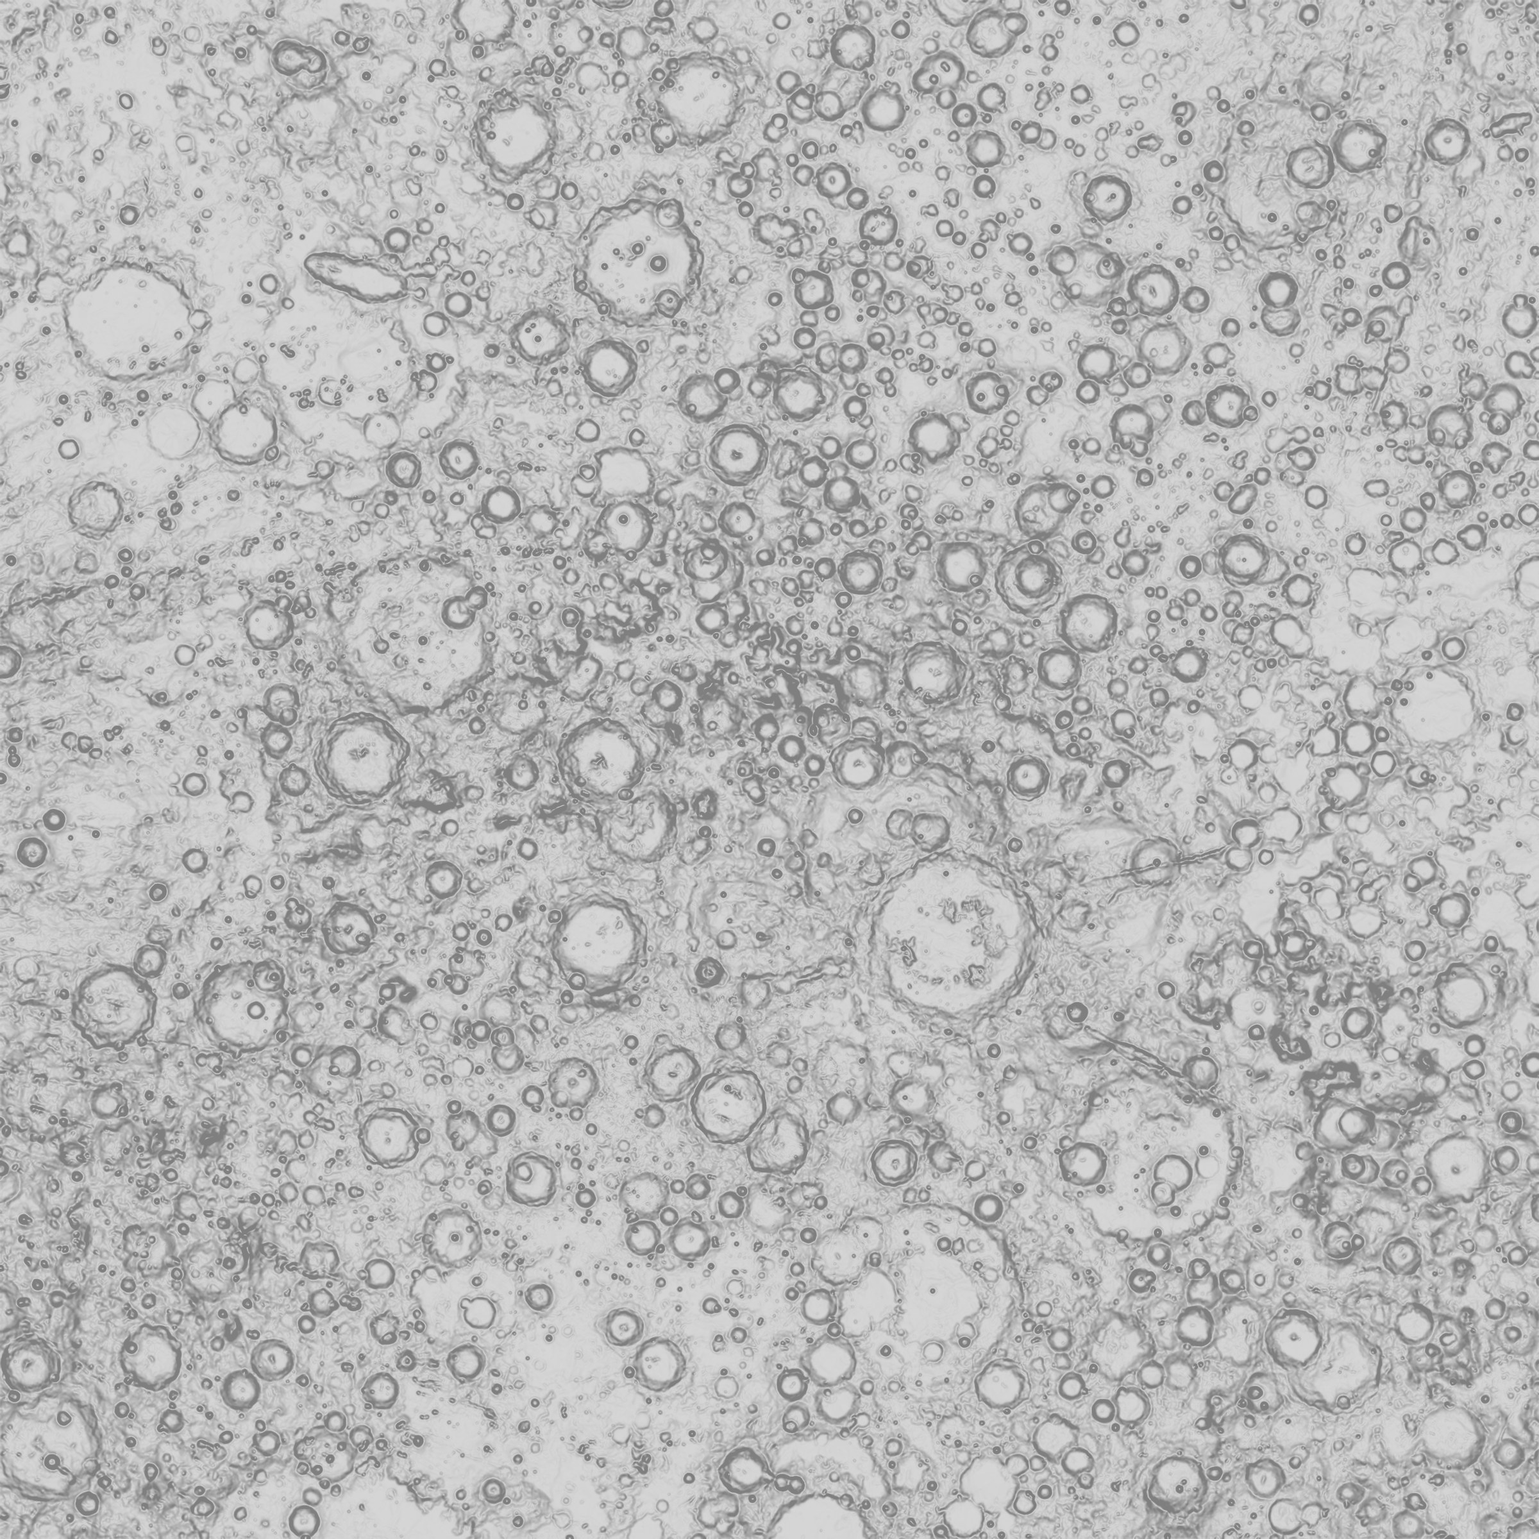
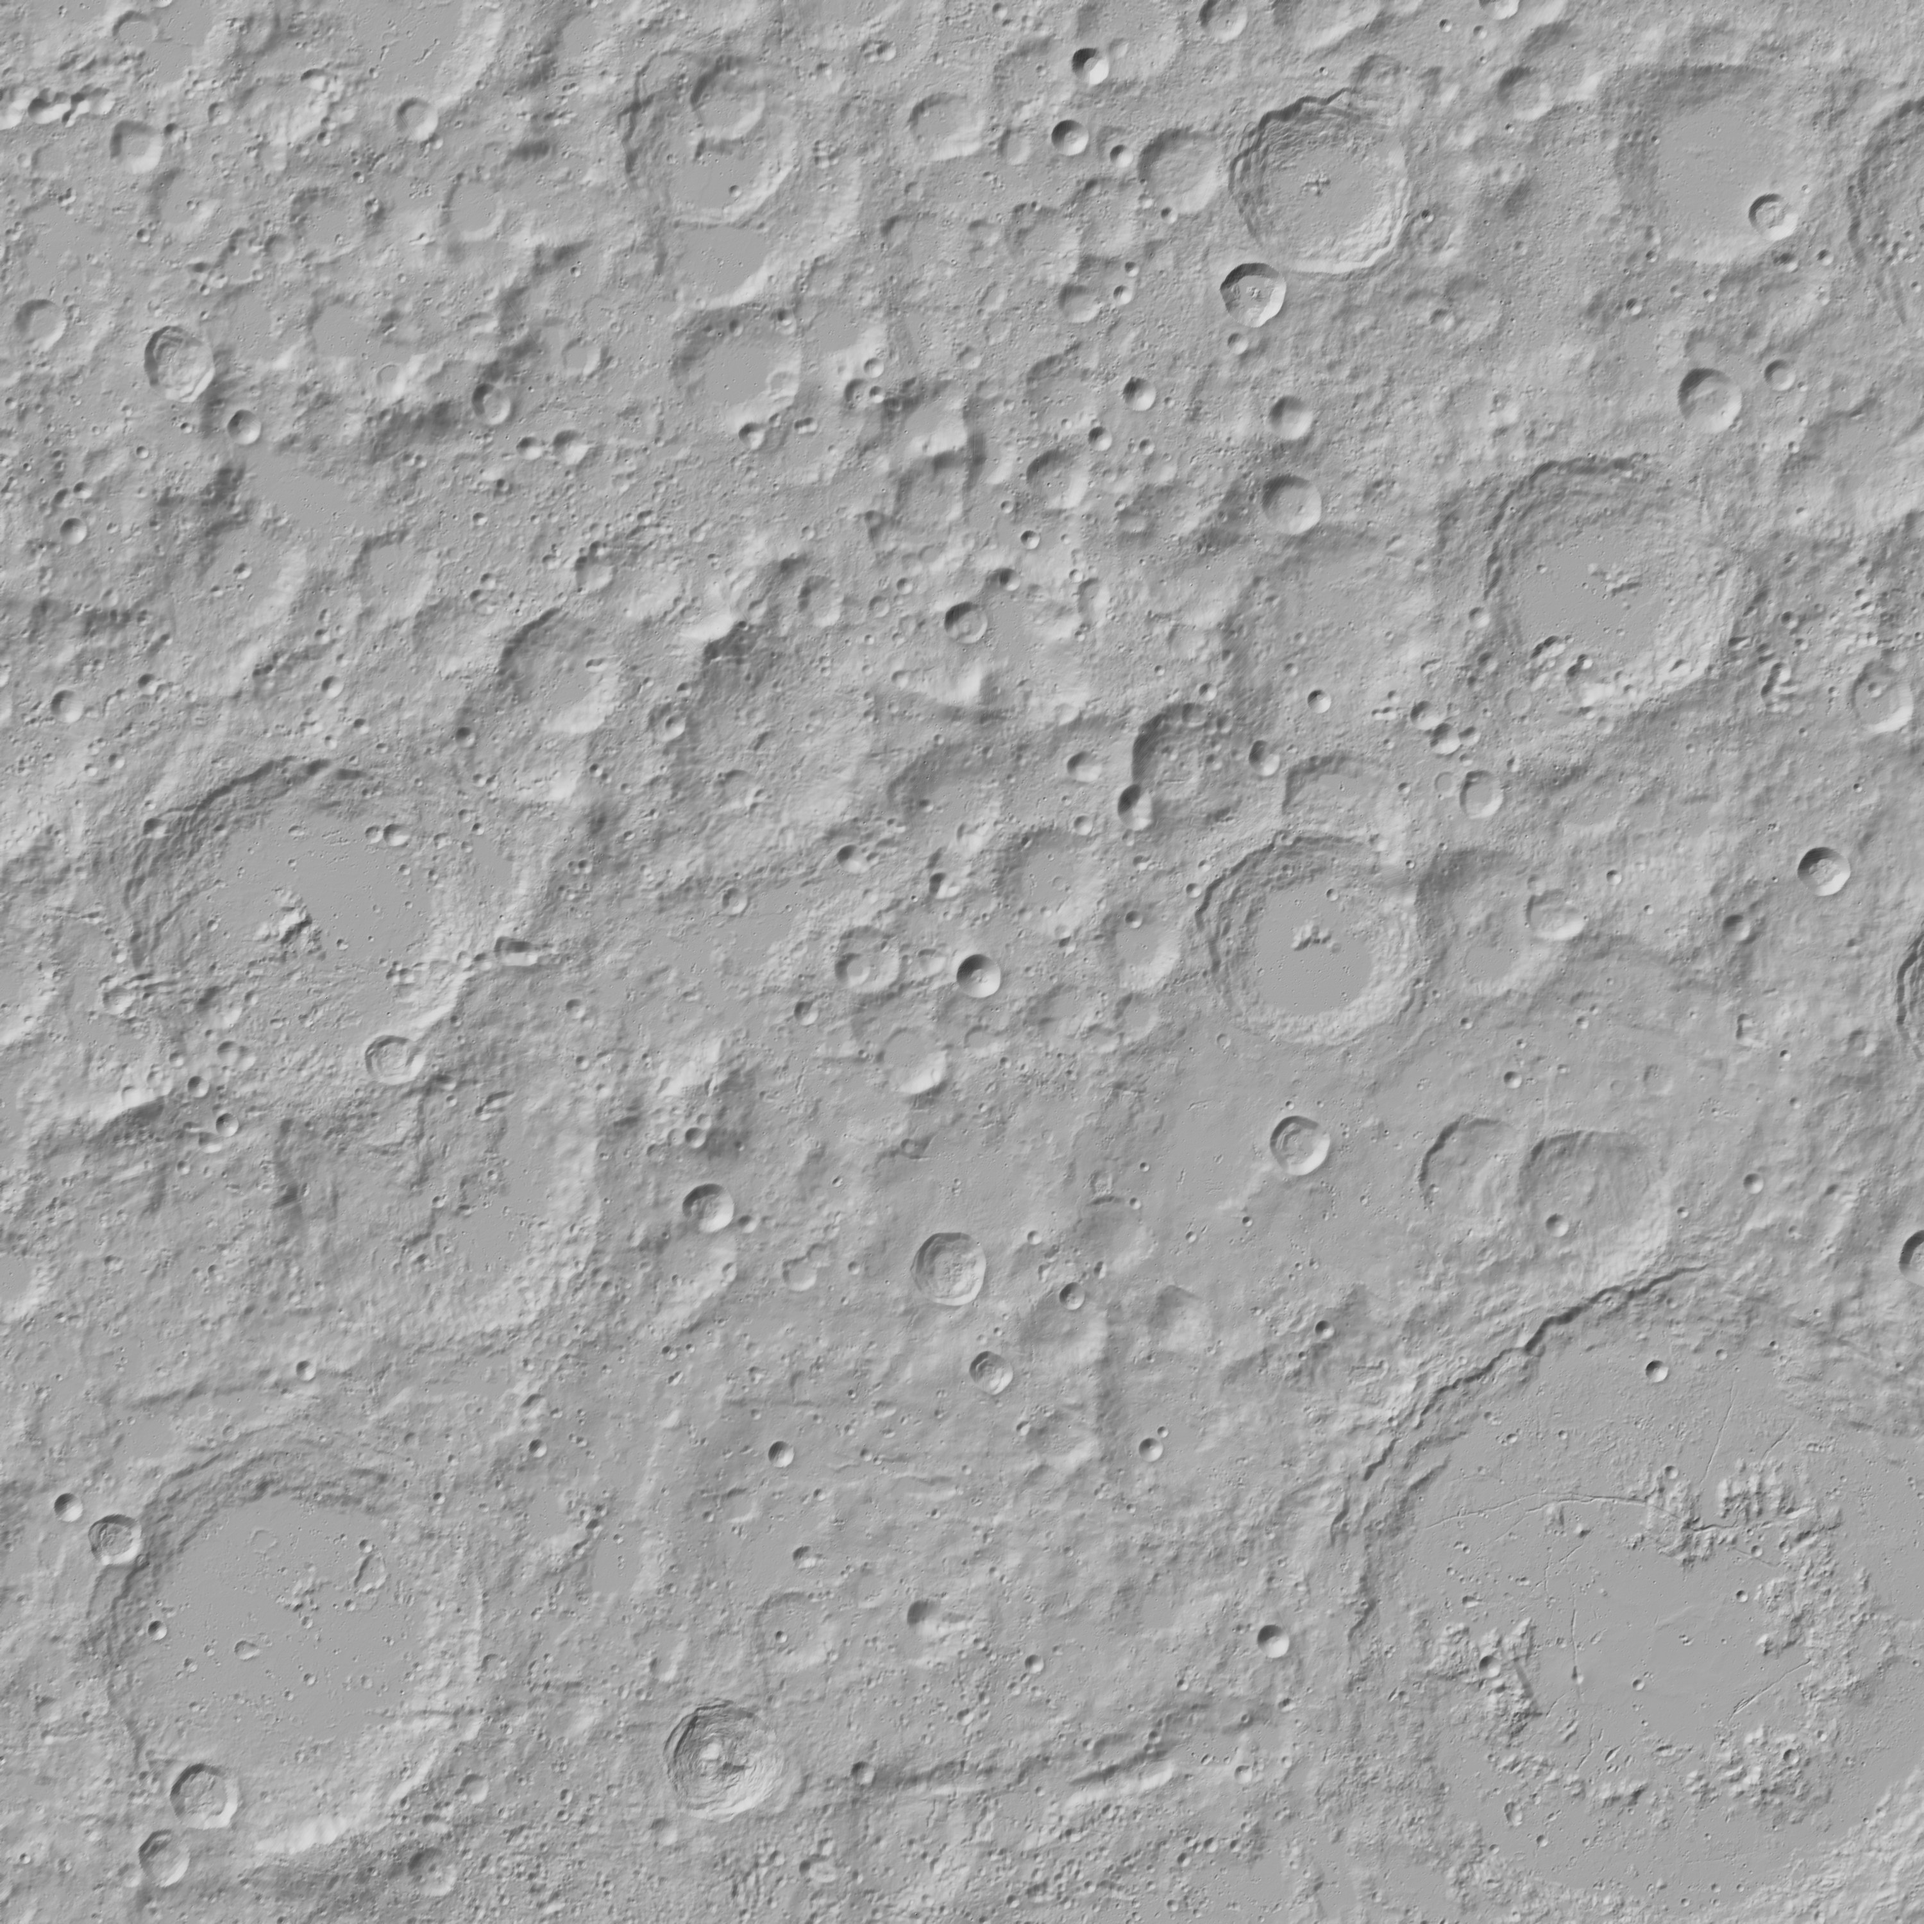
Make the globe's polar map readable
Four changes, all about being able to see what the map says.

Relief basemap: switched from the SPole45 DEM (100 m native, reaching
1440 km) to SPole75 (30 m native, 457 km). The wider product was
paying for ground the closest view never shows -- the frame corners
sit around 10 deg of colatitude, about 300 km -- at the cost of
detail on the ground always on screen. Shading is now a directional
hillshade instead of slope magnitude: a rim lit from one side gets a
bright arc and a dark arc, which reads as a raised rim, where slope
magnitude gave every rim the same tone and a crater field came out
as soft blobs. Dropped the pre-blur that was flattening them further.

Lighting: the fill was tuned for a close-up under grazing polar sun,
which left the whole body black but for one hard-edged sliver at the
overview distance. Raised the fill and widened the terminator so the
night side still reads as terrain.

Zone overlay: dropped the per-boundary contour. At 480 m cells the
sunlit and flat classes break into thousands of isolated cells, and
outlining each one turned the cap into noise. Those two classes are
now faint backdrop; shadow and prime, which are contiguous and carry
the decision, keep their strength.

Drag direction was inverted, and the hover readout kept its last
position after the pointer left, parking it over the title block.

diff --git a/src/glsl/globe.js b/src/glsl/globe.js
@@ -6,10 +6,10 @@
 // rest of the project works in, so a point on the sphere is placed in it by its own latitude
 // and longitude: rho = 2R tan((90 - |lat|) / 2), x = rho sin(lon), y = rho cos(lon), which is
 // latLonToMap from src/geo.js written in GLSL (stereoKm below). The zone grid reaches 151.68
-// km from the pole. A sphere of radius R viewed from distance D along the polar axis shows
-// terrain out to colatitude acos(R/D) at its limb; at the closest view, D = 1.35 R, that is
-// 42 deg -- so the relief basemap, which reaches 45 deg (1440 km), covers what the camera
-// can actually see, with the last few degrees fading toward the sphere's own edge anyway.
+// km from the pole, the relief basemap 457 km (75 deg south to the pole). What the closest
+// view needs is set by the field of view, not by the sphere's limb: at D = 1.35 R with a
+// 32 deg vertical fov the frame corners sit at about 10 deg of colatitude, roughly 300 km
+// from the pole, so 457 km covers it with room to fade out before its own edge shows.
 
 export const globeVert = /* glsl */ `
 out vec3 vN;
@@ -115,19 +115,11 @@ void main() {
       float groundRelief = 0.35 + 0.65 * albedo;
       col = mix(col, z.rgb * groundRelief, a);
 
-      // Contour: compare this class against its four neighbours at one texel's distance.
-      // Where any differs, draw a short bright line instead of letting the two fills blend
-      // into each other -- the only place this view puts a hard, UI-coloured edge on data.
-      vec3 c0 = z.rgb;
-      vec3 cN = texture(uZones, zuv + vec2(0.0, texel.y)).rgb;
-      vec3 cS = texture(uZones, zuv - vec2(0.0, texel.y)).rgb;
-      vec3 cE = texture(uZones, zuv + vec2(texel.x, 0.0)).rgb;
-      vec3 cW = texture(uZones, zuv - vec2(texel.x, 0.0)).rgb;
-      float edge = step(0.02, distance(c0, cN)) + step(0.02, distance(c0, cS))
-                 + step(0.02, distance(c0, cE)) + step(0.02, distance(c0, cW));
-      if (edge > 0.0 && !dimmed) {
-        col = mix(col, vec3(0.949, 0.957, 0.961), min(1.0, edge) * uZoneA * edgeFade * 0.85);
-      }
+      // No contour is drawn here. An earlier version outlined every class boundary, which
+      // at 480 m cells meant outlining each individual speckle: the sunlit and flat classes
+      // break up into thousands of isolated cells at this resolution, and edging all of them
+      // turned the cap into noise. The classes that carry a decision -- permanent shadow and
+      // prime ground -- are large and contiguous enough to read from their fill alone.
     }
   }
 

diff --git a/src/zones.js b/src/zones.js
@@ -21,12 +21,17 @@ import * as THREE from 'three';
 // Zone colours. Ice reads cold blue, prime ground is the interface red so the eye lands on
 // it first, the two partial classes are greys of different weight, rough is nearly invisible.
 // Alpha carries how strongly a class tints the terrain underneath.
+// sunlit and flat are the two classes that break up into thousands of isolated 480 m cells
+// rather than large contiguous patches (neither slope nor solar visibility holds still over
+// a crater field), so they are kept faint: a texture to glance at, not something meant to be
+// read cell by cell. shadow and prime are large and contiguous, and carry the actual decision,
+// so they keep the strength to read clearly against that quieter backdrop.
 export const ZONE_STYLE = {
-  shadow: { name: 'PERMANENT SHADOW', rgba: [0x3d, 0x8b, 0xc4, 0.52], note: 'Never sees the Sun. Water ice can be stable where it is also cold enough, which is about two fifths of this ground.' },
-  prime:  { name: 'PRIME GROUND',     rgba: [0xe2, 0x20, 0x0f, 0.58], note: 'Flat, well lit and in direct view of Earth. The combination is rare.' },
-  sunlit: { name: 'SUNLIT',           rgba: [0xf2, 0xf4, 0xf5, 0.30], note: 'Well lit, but either too steep to land on or without a direct Earth link.' },
-  flat:   { name: 'FLAT GROUND',      rgba: [0x8b, 0x97, 0x9e, 0.18], note: 'Landable slope, but poorly lit, so surface power is limited.' },
-  rough:  { name: 'ROUGH',            rgba: [0x4a, 0x52, 0x57, 0.10], note: 'Too steep to land on and poorly lit.' },
+  shadow: { name: 'PERMANENT SHADOW', rgba: [0x3d, 0x8b, 0xc4, 0.56], note: 'Never sees the Sun. Water ice can be stable where it is also cold enough, which is about two fifths of this ground.' },
+  prime:  { name: 'PRIME GROUND',     rgba: [0xe2, 0x20, 0x0f, 0.62], note: 'Flat, well lit and in direct view of Earth. The combination is rare.' },
+  sunlit: { name: 'SUNLIT',           rgba: [0xf2, 0xf4, 0xf5, 0.09], note: 'Well lit, but either too steep to land on or without a direct Earth link.' },
+  flat:   { name: 'FLAT GROUND',      rgba: [0x8b, 0x97, 0x9e, 0.07], note: 'Landable slope, but poorly lit, so surface power is limited.' },
+  rough:  { name: 'ROUGH',            rgba: [0x4a, 0x52, 0x57, 0.0], note: 'Too steep to land on and poorly lit.' },
 };
 
 export function createZones(bytes, meta) {

diff --git a/src/scene/globe.js b/src/scene/globe.js
@@ -54,8 +54,13 @@ export function createGlobe({ renderer, data, zones, radiusKm }) {
     uZoneSel: { value: 0 },
     uZoneDim: { value: 0.22 },
     uSunDir: { value: new THREE.Vector3(1, 0, 0) },
-    uAmbient: { value: 0.1 },
-    uTerm: { value: 0.06 },
+    // This is a navigational globe, not a photo. At the mission epoch the Sun sits 1.7-3 deg
+    // above the pole's horizon, so a physically honest fill would leave almost the whole body
+    // pure black with one hard-edged sliver lit -- correct, and useless for finding your way
+    // around. The fill is lifted until the night side still reads as terrain, and the
+    // terminator widened so it falls off as a gradient rather than a cut edge.
+    uAmbient: { value: 0.46 },
+    uTerm: { value: 0.3 },
   };
 
   const sphere = new THREE.Mesh(
@@ -119,9 +124,9 @@ export function createGlobe({ renderer, data, zones, radiusKm }) {
   const axisY = new THREE.Vector3(0, 1, 0), axisX = new THREE.Vector3(1, 0, 0);
   function drag(dx, dy) {
     const k = 0.005 * (dist / DIST.start);
-    qTmp.setFromAxisAngle(axisY, -dx * k);
+    qTmp.setFromAxisAngle(axisY, dx * k);
     orient.premultiply(qTmp);
-    qTmp.setFromAxisAngle(axisX, -dy * k);
+    qTmp.setFromAxisAngle(axisX, dy * k);
     orient.premultiply(qTmp);
     orient.normalize();
   }

diff --git a/src/main.js b/src/main.js
@@ -849,6 +849,10 @@ async function boot() {
       if (!active) return;
       hoverPt = { x: e.clientX, y: e.clientY };
     });
+    // Without these the readout keeps its last position and values after the pointer has
+    // gone, which parks it over the title block in the top-left corner.
+    renderer.domElement.addEventListener('pointerleave', () => { hoverPt = null; tip.hidden = true; });
+    window.addEventListener('blur', () => { hoverPt = null; tip.hidden = true; });
 
     document.getElementById('sel-pole').addEventListener('click', () => globe.flyToPole());
     document.getElementById('sel-overview').addEventListener('click', () => globe.flyToOverview());

diff --git a/tools/fetch_moon_polar.py b/tools/fetch_moon_polar.py
@@ -38,13 +38,12 @@ ROOT = Path(__file__).resolve().parent.parent
 RAW = ROOT / "data" / "raw" / "nasa_zones"
 OUT = ROOT / "src" / "data"
 
-HALF_M = 1_440_000.0   # the service's own full extent: 45 deg of arc from the pole
-# The globe's closest view only ever shows about 300-400 km of real ground (colat under
-# 10 deg at DIST.min), a quarter of this layer's reach, so 960px there read as soft,
-# over-magnified blobs rather than craters. 2400px trades resolution where it is not
-# needed for resolution where it is: 600 m/px, four times sharper in the region that is
-# actually ever on screen up close.
-N = 2400
+# SPole75 rather than SPole45: its extent (+/-457 km, 75 deg south to the pole) is what the
+# globe's closest view actually shows (colat under 10 deg, about 300 km), and its native
+# resolution is 30 m against SPole45's 100 m. Fetching the wider product meant asking for
+# ground that never appears on screen at the cost of detail on the ground that always does.
+HALF_M = 457_440.0
+N = 3000               # 305 m/px, still well above the 30 m source, so the detail is real
 
 # Same WKT as fetch_zones.py: requesting it explicitly, rather than reprojecting afterwards,
 # is what keeps this raster on the same (x east, y toward lon 0) pixel grid the zone overlay
@@ -58,7 +57,7 @@ WKT = (
     'PARAMETER["latitude_of_origin",-90.0],UNIT["Meter",1.0]]'
 )
 BASE = "https://trek.nasa.gov/moon/trekarcgis2/rest/services"
-SERVICE = "LRO_LOLA_DEM_SPole45_100mp_v04_SP"
+SERVICE = "LRO_LOLA_DEM_SPole75_30mp_v04_SP"
 
 
 def fetch():
@@ -86,14 +85,23 @@ def fetch():
     return dest
 
 
-def slope_shade(h, scale, knee_deg=14.0):
-    """Darken by how steep the ground is. A light blur first keeps single-pixel DEM noise
-    from reading as crater rims; knee_deg is the slope mapped to full darkening, set loose
-    enough that most rims shade in rather than silhouette solid black."""
-    h = ndimage.gaussian_filter(h, 1.2)
+def hillshade(h, scale, az_deg=315.0, alt_deg=35.0):
+    """Standard directional hillshade: the shading every published relief map uses, and the
+    reason is legibility -- a crater rim lit from one side gets a bright arc and a dark arc,
+    which the eye reads instantly as a raised rim. Shading by slope magnitude instead (an
+    earlier attempt here) gives a rim the same tone all the way round, so craters come out as
+    soft blobs with no sense of up or down, and a field of them looks like water stains.
+
+    No pre-blur: at 305 m/px over a 30 m source the fetch has already averaged away the
+    pixel noise a blur would be for, and blurring again is what flattened the rims before.
+    """
     gy, gx = np.gradient(h, scale)
-    slope = np.degrees(np.arctan(np.hypot(gx, gy)))
-    return 1.0 - np.clip(slope / knee_deg, 0.0, 1.0)
+    az, alt = np.radians(az_deg), np.radians(alt_deg)
+    # surface normal (rows run north to south, hence the sign on gy)
+    nx, ny, nz = -gx, gy, np.ones_like(h)
+    inv = 1.0 / np.sqrt(nx * nx + ny * ny + nz * nz)
+    lx, ly, lz = np.cos(alt) * np.sin(az), np.cos(alt) * np.cos(az), np.sin(alt)
+    return np.clip((nx * lx + ny * ly + nz * lz) * inv, 0.0, 1.0)
 
 
 def main():
@@ -105,11 +113,11 @@ def main():
         h[bad] = np.nanmedian(h[~bad])
 
     scale_m = 2 * HALF_M / h.shape[0]
-    shade = slope_shade(h, scale_m)
-    # Compressed range: this is a backdrop behind a live-lit pass and the zone tint, not
-    # the subject, so it stays off both black and white and close enough to flat grey that
-    # the real, moving terminator reads as the light source, not this baked-in texture.
-    img = (0.5 + 0.34 * shade) * 255
+    shade = hillshade(h, scale_m)
+    # Gamma below 1 opens up the shadow end, where most of this terrain sits once it is lit
+    # from 35 deg, and the range stays off both extremes: the zone tint is composited over
+    # this, and tinting pure white or pure black loses the colour either way.
+    img = (0.2 + 0.72 * shade ** 0.85) * 255
 
     OUT.mkdir(parents=True, exist_ok=True)
     f = OUT / "moon_spole_relief.jpg"
